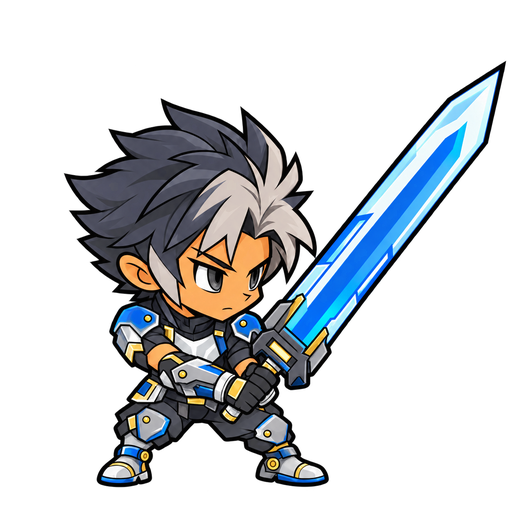
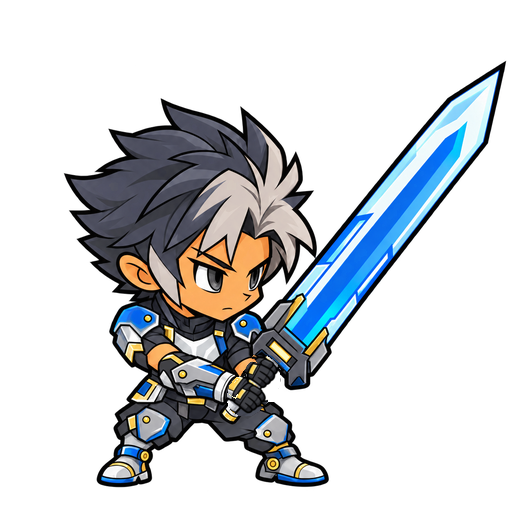
11 네온 알론소: 원화 손 수정본(두 주먹 손가락 4개) — 마이룸 그림 교체, 지운 고리 가시·손목 구멍 정리, 손 관절점 다시 잼
Claude-Session: https://claude.ai/code/session_011WxNHak8EsK79yqEoeePC7

Changed region(s): [[0.4375, 0.6875, 0.5625, 0.8125]]

diff --git a/assets/rig/alonso-neon/STATUS.md b/assets/rig/alonso-neon/STATUS.md
@@ -8,5 +8,10 @@
 - 엔진 opt-in `swordGrip.guard` (rig.js `_swordGuard`): 동작이 없을 때(대기·달리기·몸 반응)도 `_swordRigid`로 두 손이 손잡이를 쥠. 값 gx·gy(골반 기준)·sa·sN·sF·shN·shF·조각 이름·order, 달리기 흔들림 run.{gx,gy,sa}=[진폭,위상], 숨쉬기 breath.{gy,sa}. 다른 리그 6종(대기·달리기·공격·반응) 픽셀 차이 0
 - 시험: `assets/rig/alonso-sky/source/tools/guardtest.html` + `guardtest.py` (21 조각으로 엔진만 확인)
 
+## 10:40 원화 손 수정본 받음 (0번) — 합격
+- 바뀐 곳은 손 둘레(225~281, 353~417)뿐, 두 주먹 모두 손가락 4개. 게임 마이룸 그림 char_0011.png 교체(21과 같은 방식), 원본 받은 그림 = source/ref512_received.png, 정리본 = source/ref512.png
+- 직접 정리 2곳: 지운 은색 고리가 남긴 검은 가시 지움 · 손목과 주먹 사이 작은 구멍 메움
+- 손·손잡이 관절점 다시 잼 (measure.json)
+
 ## 다음
 손 고친 원화·조각·동작 시트 받으면 → 검수(손가락·겹침·비율) → 조각 이름 붙이기 → 관절점 다시 재기 → 대기 조립(guard) → 달리기(probe.py) → 내려찍기 → 게임 연결(game_check.py)
